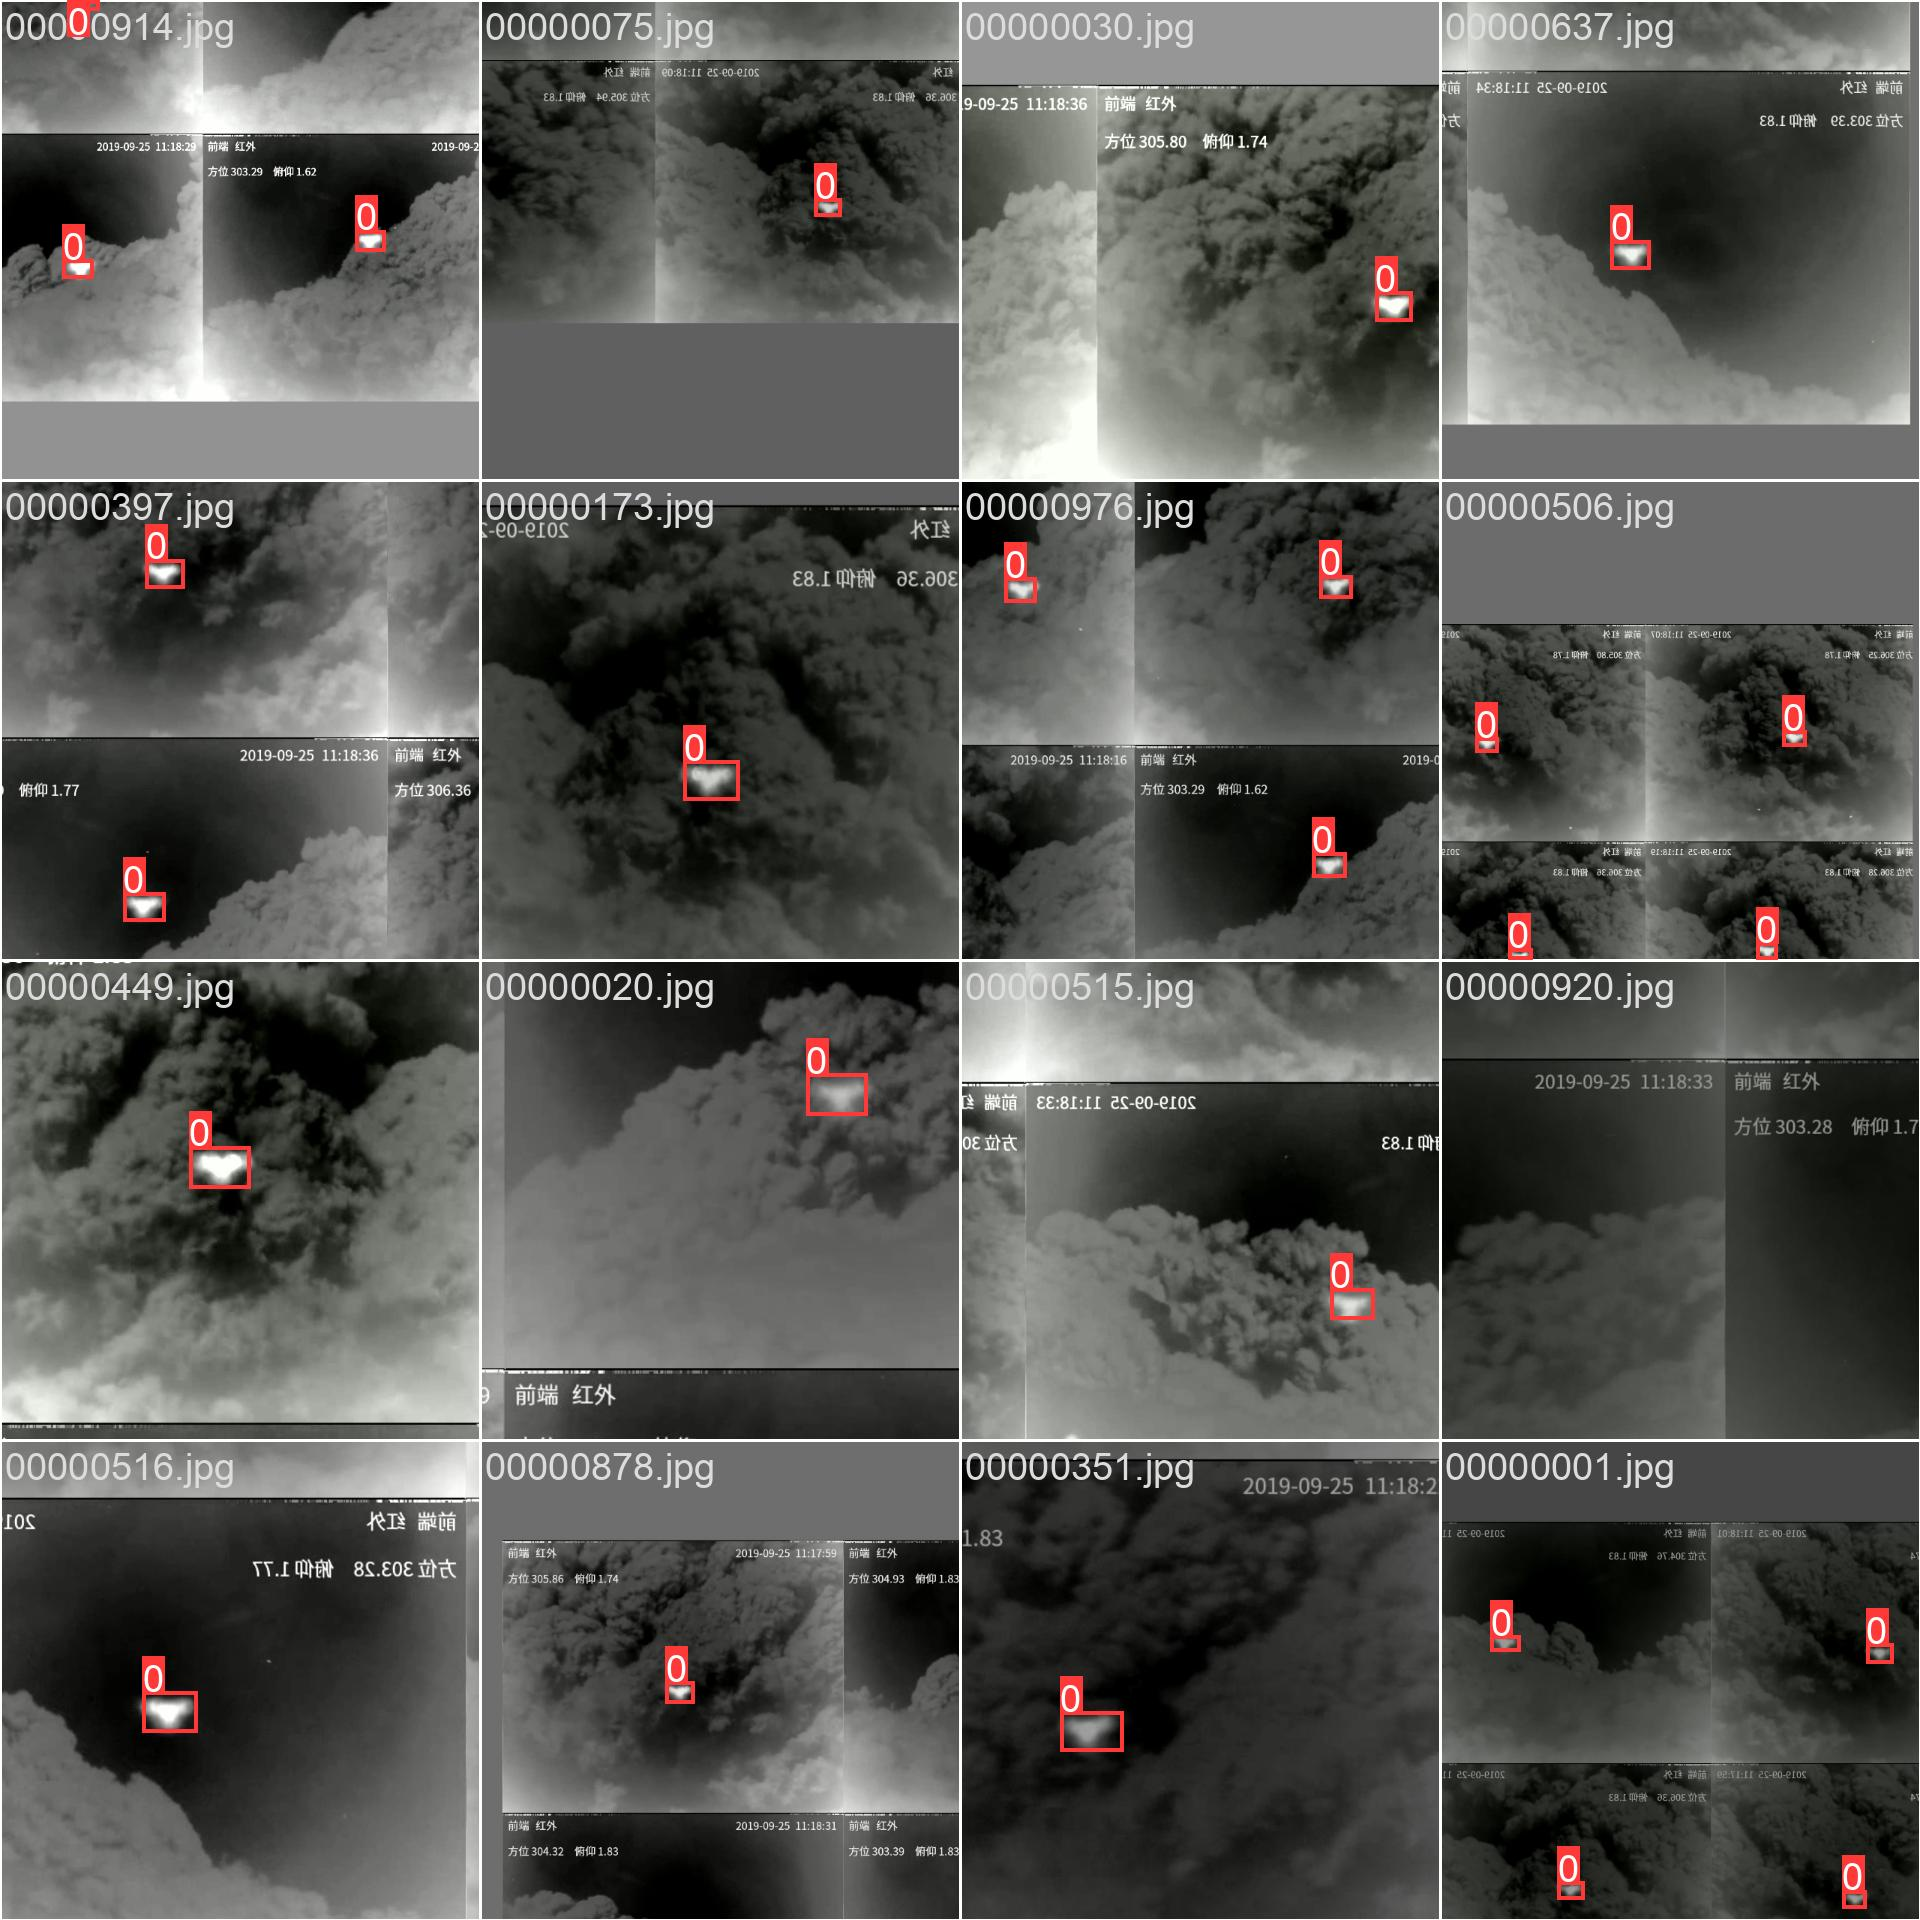
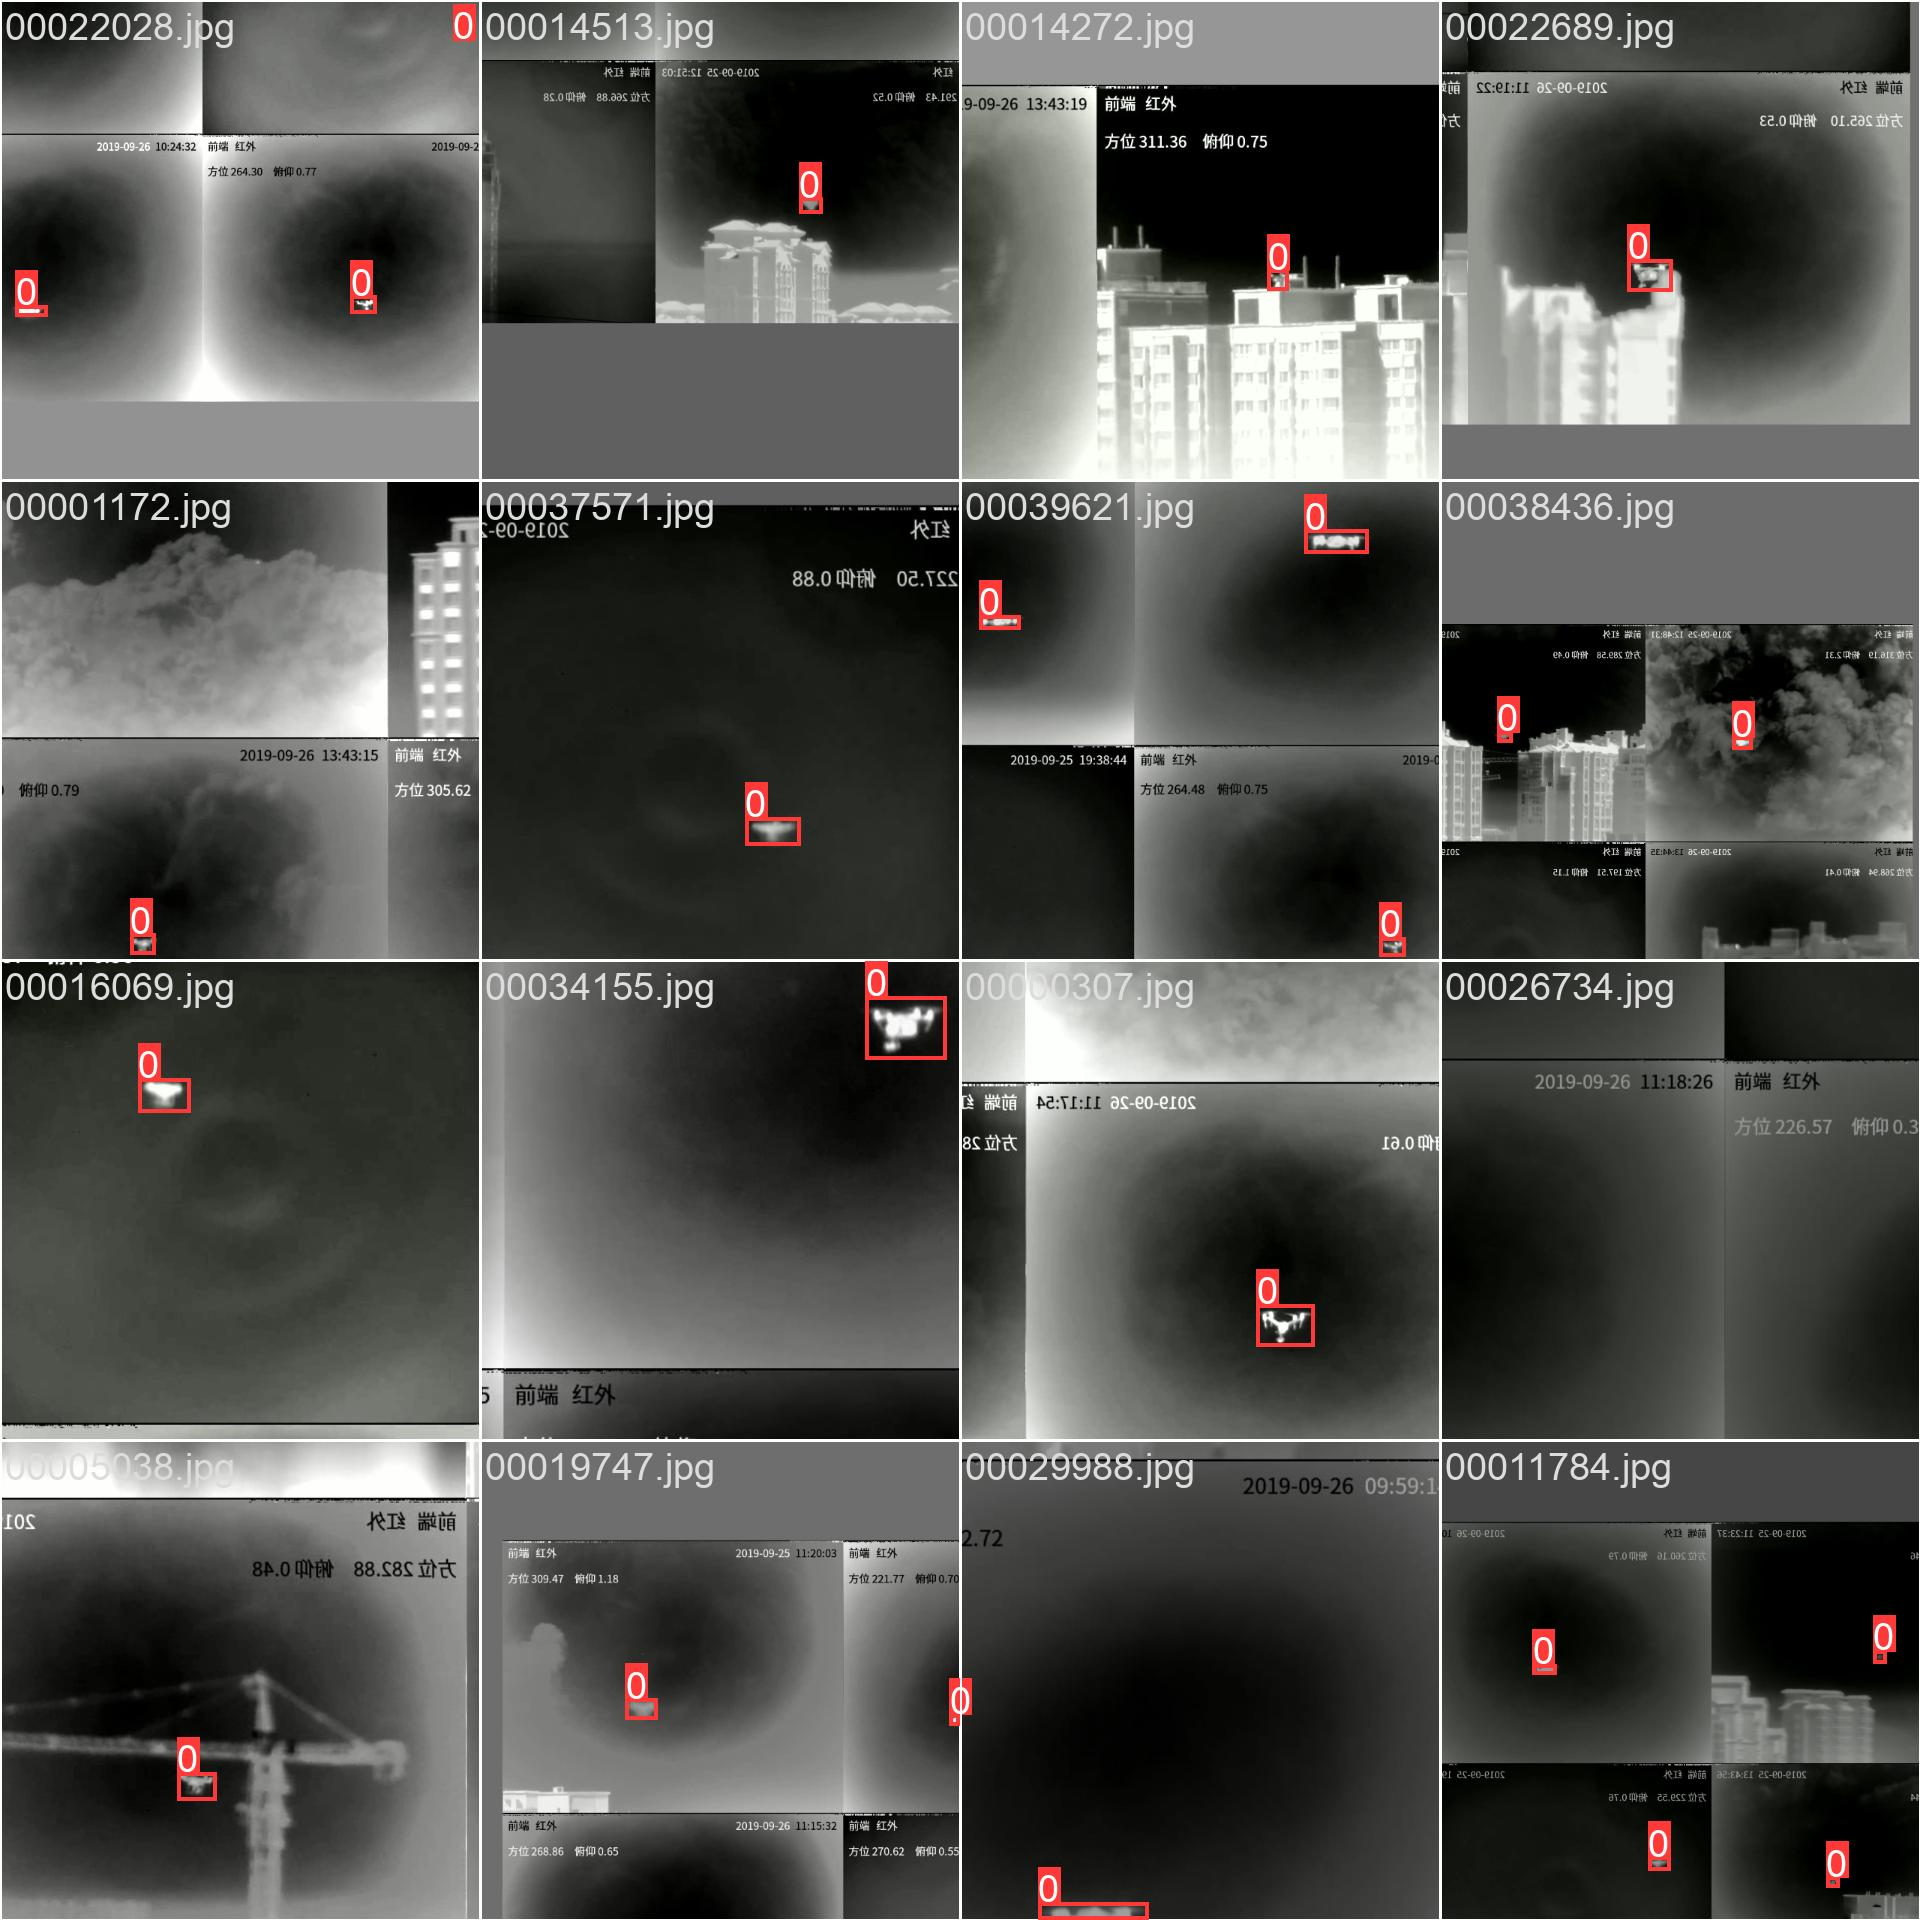
Update README.md

diff --git a/README.md b/README.md
@@ -1,6 +1,6 @@
 # __OSTrack__
 
-![result](assets/results/val_batch2_pred.jpg)
+![result](assets/results/train_batch1.jpg)
 
 OSTrack is an artificial intelligence technology for tracking and locking unmanned aerial vehicles based on the ViT deep network model. OSTrack is based on the Vision of Transformer deep learning model. For unmanned aerial vehicles moving at high speed in the near and far fields, it uses visual tracking to lock the position of the unmanned aerial vehicle in real-time video frames. The model mainly uses multiple initial anchor bounding boxes, obtains feature maps through feature extraction based on network input, and the position of the unmanned aerial vehicle is determined by the votes of the anchor boxes given by the network model. The trained network model has certain robustness to near and far fields, partial occlusion, and light changes.  
 ![Cover Image](assets/cover_img.png)
